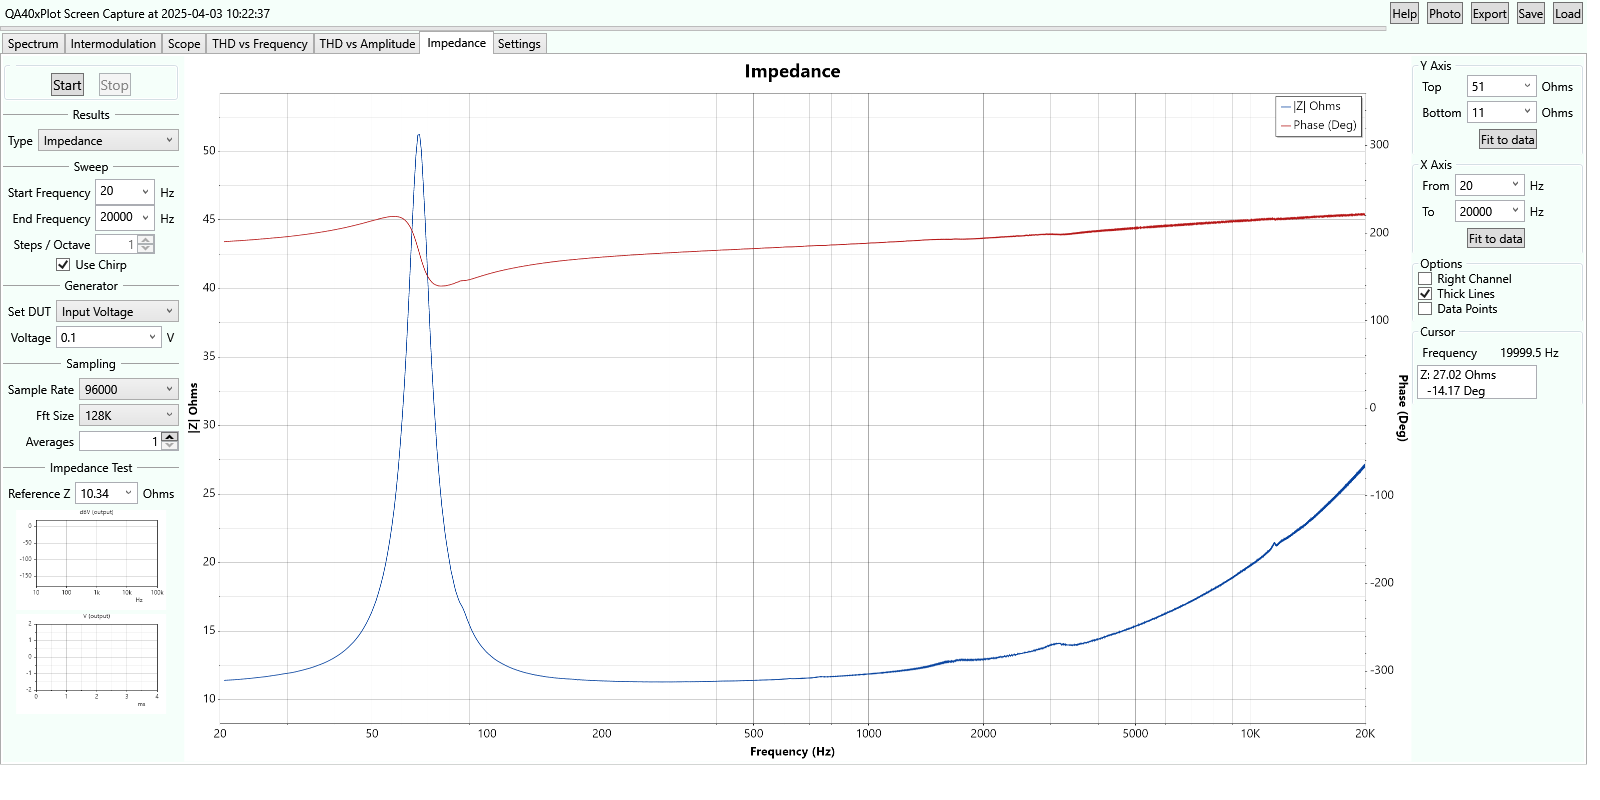
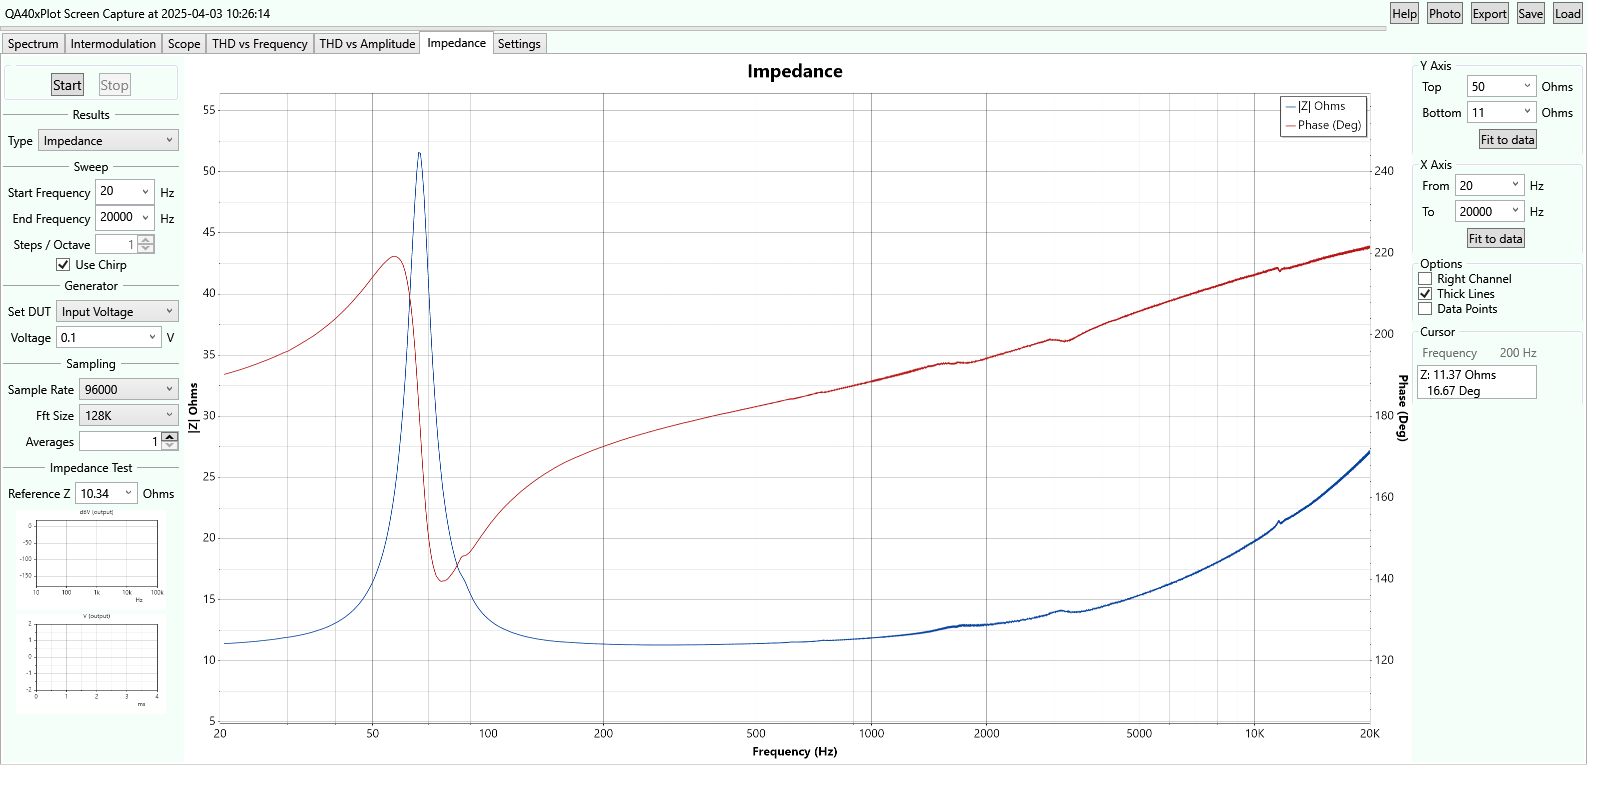
fix phase repair sign

diff --git a/QA40xPlot/Help/HelpSummary.html b/QA40xPlot/Help/HelpSummary.html
@@ -103,7 +103,7 @@ Along the top right of the screen are a few command buttons. If this becomes too
     <li>Click inside the plot to freeze a cursor. Click again to unfreeze.</li>
 </ul>
 <h1>Amplitude Definitions</h1>
-<p>All tests have a choice as to amplitude definition.</p>
+<p>All tests have a choice as to how the QA40x generator voltage is determined.</p>
 <table>
     <thead>
         <tr>
@@ -114,15 +114,15 @@ Along the top right of the screen are a few command buttons. If this becomes too
     <tbody>
         <tr>
             <td><strong>Input Voltage</strong></td>
-            <td>Interpret voltages as QA40x generator settings.</td>
+            <td>The desired DUT input voltage. This is the QA40x generator output voltage.</td>
         </tr>
         <tr>
             <td><strong>Output Voltage</strong></td>
-            <td>Determine voltage to achieve the desired output. This always does a gain calculation first</td>
+            <td>Determine generator voltage to produce the desired DUT output. This does a low-voltage gain calculation first</td>
         </tr>
         <tr>
             <td><strong>Output Power</strong></td>
-            <td>Use the amplifier load setting (see Settings) to determine output voltage from power and then use gain to calculate the input voltage</td>
+            <td>Use the amplifier load setting (see Settings) to determine output voltage from power and then use gain to calculate the input/generator voltage</td>
         </tr>
     </tbody>
 </table>

diff --git a/QA40xPlot/Actions/ActFrequencyResponse.cs b/QA40xPlot/Actions/ActFrequencyResponse.cs
@@ -590,7 +590,7 @@ namespace QA40xPlot.Actions
             var allPos = phaseData.Select(x => (x >= 0) ? x : x + 360);
             var deltain = phaseData.Select((x,index) => Math.Abs(x - phaseData[((index==0) ? 1 : index) - 1])).Sum();
 			var deltaPos = allPos.Select((x, index) => Math.Abs(x - phaseData[((index == 0) ? 1 : index) - 1])).Sum();
-			if (deltain < deltaPos)
+			if (deltain > deltaPos)
 			{
                 return allPos.ToArray();
 			}
